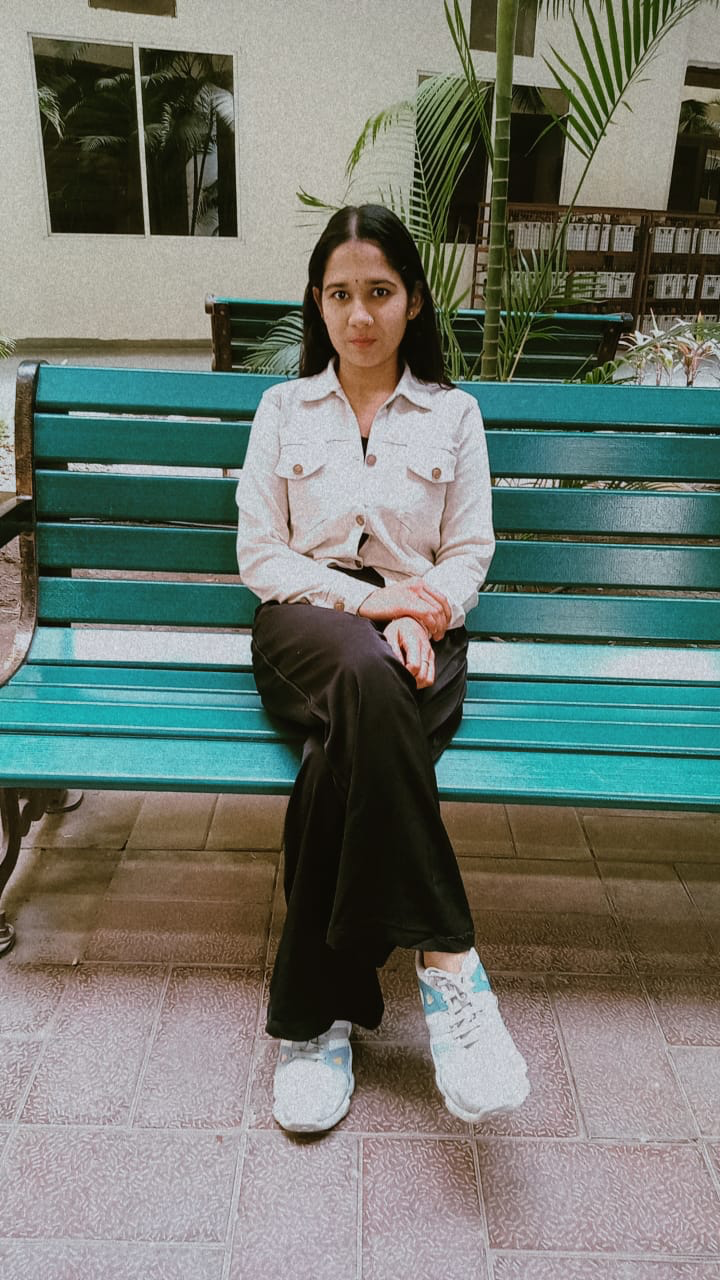
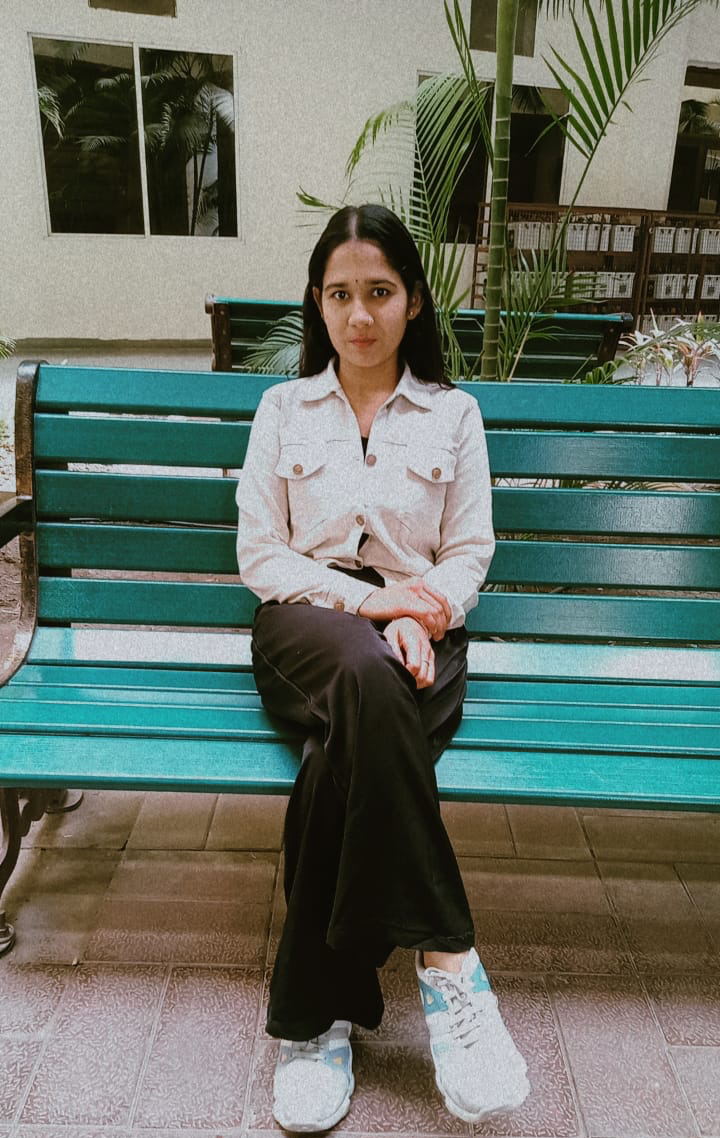
fix profile image path

diff --git a/index.html b/index.html
@@ -1,4 +1,3 @@
-Html
 <!doctype html>
 <html lang="en">
 <head>
@@ -61,7 +60,8 @@ Html
 
       <div class="hero-center">
         <div class="neon-ring" aria-hidden="true">
-          <img src="profile.jpg" alt="Nikita Solanki" class="profile" />
+          <!-- FIXED IMAGE PATH HERE -->
+          <img src="profile.jpg/image.jpg" alt="Nikita Solanki" class="profile" />
         </div>
       </div>
     </section>
@@ -147,6 +147,5 @@ Html
   <script src="script.js"></script>
 </body>
 </html>
-
         
     
